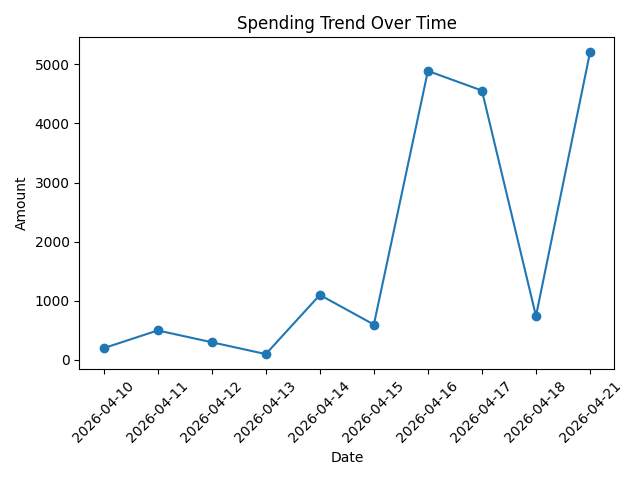
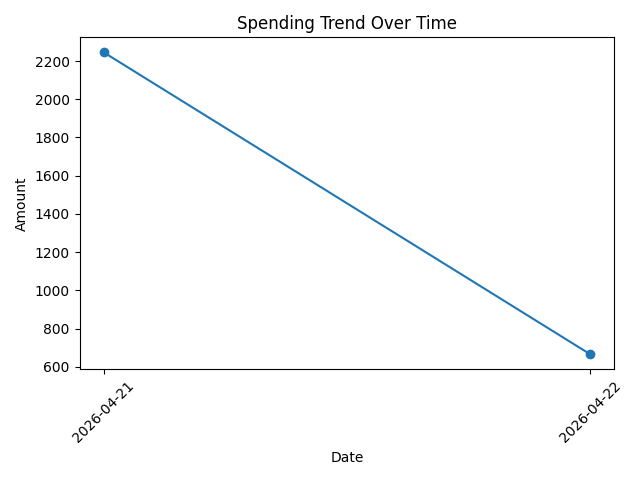
feat(database): fully integrated expense management and analytics from JSON to SQLite

diff --git a/services.py b/services.py
@@ -1,26 +1,15 @@
 import json
 import os
-import uuid
+import matplotlib
+
+matplotlib.use("Agg")
+
 import matplotlib.pyplot as plt
 from collections import defaultdict
 from datetime import datetime
 from models import db, Expense
 
-
-FILE_PATH = "expenses.json"
-
-
-def load_expenses():
-    if not os.path.exists(FILE_PATH):
-        return []
-
-    with open(FILE_PATH, "r") as f:
-        return json.load(f)
-
-
-def save_expenses(expenses):
-    with open(FILE_PATH, "w") as f:
-        json.dump(expenses, f, indent=4)
+BUDGET_FILE = "budgets.json"
 
 
 def add_expense(data):
@@ -30,19 +19,9 @@ def add_expense(data):
         description=data["description"],
         date=data["date"],
     )
-
     db.session.add(expense)
     db.session.commit()
-
     return expense
-
-
-def delete_expense(expense_id):
-    expense = Expense.query.get(expense_id)
-
-    if expense:
-        db.session.delete(expense)
-        db.session.commit()
 
 
 def get_all_expenses():
@@ -61,33 +40,35 @@ def update_expense(expense_id, data):
         expense.category = data["category"]
         expense.description = data["description"]
         expense.date = data["date"]
-
         db.session.commit()
 
 
-from collections import defaultdict
+def delete_expense(expense_id):
+    expense = Expense.query.get(expense_id)
+
+    if expense:
+        db.session.delete(expense)
+        db.session.commit()
 
 
 def generate_insights():
-    expenses = load_expenses()
+    expenses = get_all_expenses()
     budgets = load_budgets()
 
     if not expenses:
         return ["No data available"]
 
     insights = []
-
     total = 0
     category_totals = defaultdict(int)
 
     for e in expenses:
-        amount = int(e["amount"])
-        category = e["category"].strip().lower()
+        amount = e.amount
+        category = e.category.strip().lower()
 
         total += amount
         category_totals[category] += amount
 
-    # Overall Budget Check
     overall_budget = budgets.get("overall", 0)
 
     if overall_budget > 0:
@@ -100,7 +81,6 @@ def generate_insights():
         else:
             insights.append(f"✅ You used {percent:.1f}% of your overall budget")
 
-    # Category Budget Check
     category_budgets = budgets.get("categories", {})
 
     for cat, amt in category_totals.items():
@@ -116,44 +96,32 @@ def generate_insights():
             else:
                 insights.append(f"{cat.title()} usage: {percent:.1f}% of budget")
 
-    # Highest category
     if category_totals:
         max_cat = max(category_totals, key=category_totals.get)
         insights.append(f"Highest spending category: {max_cat.title()}")
 
-    print("Budgets:", budgets)
-    print("Category totals:", category_totals)
-
-    from datetime import datetime
-
-    # Weekly + Weekend Analysis
     weekday_total = 0
     weekend_total = 0
 
     for e in expenses:
-        date_obj = datetime.strptime(e["date"], "%Y-%m-%d")
-        amount = int(e["amount"])
+        date_obj = datetime.strptime(e.date, "%Y-%m-%d")
 
-        # Monday=0 ... Sunday=6
-        if date_obj.weekday() >= 5:  # Saturday, Sunday
-            weekend_total += amount
+        if date_obj.weekday() >= 5:
+            weekend_total += e.amount
         else:
-            weekday_total += amount
+            weekday_total += e.amount
 
-    # Compare
     if weekend_total > weekday_total:
         insights.append("📅 You spend more on weekends")
     elif weekday_total > weekend_total:
         insights.append("📅 You spend more on weekdays")
 
-    # Highest Spending Day
     day_totals = defaultdict(int)
 
     for e in expenses:
-        date_obj = datetime.strptime(e["date"], "%Y-%m-%d")
+        date_obj = datetime.strptime(e.date, "%Y-%m-%d")
         day_name = date_obj.strftime("%A")
-
-        day_totals[day_name] += int(e["amount"])
+        day_totals[day_name] += e.amount
 
     if day_totals:
         max_day = max(day_totals, key=day_totals.get)
@@ -163,29 +131,23 @@ def generate_insights():
 
 
 def generate_advanced_insights():
-    expenses = load_expenses()
+    expenses = get_all_expenses()
 
     if not expenses:
         return ["No data available"]
 
-    total = sum(e["amount"] for e in expenses)
-
+    total = sum(e.amount for e in expenses)
     category_totals = defaultdict(int)
 
     for e in expenses:
-        category_totals[e["category"]] += e["amount"]
+        category_totals[e.category] += e.amount
 
-    insights = []
+    insights = [f"Total spending: ₹{total}"]
 
-    # Total
-    insights.append(f"Total spending: ₹{total}")
-
-    # Category %
     for cat, amt in category_totals.items():
         percent = (amt / total) * 100
         insights.append(f"{cat} accounts for {percent:.1f}%")
 
-    # Highest category
     max_cat = max(category_totals, key=category_totals.get)
     insights.append(f"Highest spending: {max_cat}")
 
@@ -193,31 +155,28 @@ def generate_advanced_insights():
 
 
 def generate_pie_chart():
-    expenses = load_expenses()
+    expenses = get_all_expenses()
 
     if not expenses:
         return
 
-    category_totals = {}
+    category_totals = defaultdict(int)
 
     for e in expenses:
-        cat = e["category"]
-        category_totals[cat] = category_totals.get(cat, 0) + e["amount"]
+        category_totals[e.category] += e.amount
 
     labels = list(category_totals.keys())
     values = list(category_totals.values())
 
     plt.figure()
     plt.pie(values, labels=labels, autopct="%1.1f%%")
-
     plt.title("Expense Distribution")
-
     plt.savefig("static/pie_chart.png")
     plt.close()
 
 
 def generate_line_chart():
-    expenses = load_expenses()
+    expenses = get_all_expenses()
 
     if not expenses:
         return
@@ -225,33 +184,22 @@ def generate_line_chart():
     daily_totals = defaultdict(int)
 
     for e in expenses:
-        date = e["date"]
-        amount = int(e["amount"])
-        daily_totals[date] += amount
+        daily_totals[e.date] += e.amount
 
-    # Sort dates
     sorted_dates = sorted(daily_totals.keys())
     values = [daily_totals[d] for d in sorted_dates]
 
     plt.figure()
     plt.plot(sorted_dates, values, marker="o")
-
     plt.title("Spending Trend Over Time")
     plt.xlabel("Date")
     plt.ylabel("Amount")
-
     plt.xticks(rotation=45)
-
     plt.tight_layout()
-
-    import os
 
     path = os.path.join("static", "line_chart.png")
     plt.savefig(path)
     plt.close()
-
-
-BUDGET_FILE = "budgets.json"
 
 
 def load_budgets():
@@ -277,7 +225,7 @@ def save_budgets(data):
 
 
 def generate_description_insights():
-    expenses = load_expenses()
+    expenses = get_all_expenses()
 
     if not expenses:
         return []
@@ -293,7 +241,7 @@ def generate_description_insights():
     sub_count = 0
 
     for e in expenses:
-        desc = e["description"].lower()
+        desc = (e.description or "").lower()
 
         if any(word in desc for word in food_keywords):
             food_count += 1
@@ -316,27 +264,21 @@ def generate_description_insights():
     return insights
 
 
-from datetime import datetime
-
-
 def validate_expense_data(amount, category, date):
     errors = []
 
-    # Amount
     if amount <= 0:
         errors.append("Amount must be greater than 0")
 
     if amount > 1000000:
         errors.append("Amount too large")
 
-    # Category
     if not category.strip():
         errors.append("Category is required")
 
     if len(category) > 30:
         errors.append("Category too long")
 
-    # Date
     try:
         datetime.strptime(date, "%Y-%m-%d")
     except ValueError:

diff --git a/app.py b/app.py
@@ -1,7 +1,6 @@
 from flask import Flask, request, render_template, redirect
 from config import Config
 from datetime import datetime
-import os
 
 from models import db
 
@@ -22,9 +21,7 @@ from services import (
 )
 
 app = Flask(__name__)
-
 app.config.from_object(Config)
-
 
 db.init_app(app)
 
@@ -60,7 +57,6 @@ def create_expense():
     if category == "custom":
         category = request.form.get("custom_category", "").strip().lower()
 
-    # Safe amount conversion
     try:
         amount = int(request.form.get("amount", 0))
     except ValueError:
@@ -83,16 +79,15 @@ def create_expense():
     return redirect("/")
 
 
-@app.route("/update/<expense_id>", methods=["POST"])
+@app.route("/update/<int:expense_id>", methods=["POST"])
 def update(expense_id):
     category = request.form.get("category", "").strip().lower()
+    date = request.form.get("date")
 
     try:
         amount = int(request.form.get("amount", 0))
     except ValueError:
         return "Error: Invalid amount"
-
-    date = request.form.get("date")
 
     errors = validate_expense_data(amount, category, date)
 
@@ -111,7 +106,7 @@ def update(expense_id):
     return redirect("/")
 
 
-@app.route("/edit/<expense_id>")
+@app.route("/edit/<int:expense_id>")
 def edit_page(expense_id):
     expense = get_expense_by_id(expense_id)
 
@@ -121,7 +116,7 @@ def edit_page(expense_id):
     return render_template("edit.html", expense=expense)
 
 
-@app.route("/delete/<expense_id>")
+@app.route("/delete/<int:expense_id>")
 def delete(expense_id):
     delete_expense(expense_id)
     return redirect("/")

diff --git a/models.py b/models.py
@@ -4,13 +4,13 @@ db = SQLAlchemy()
 
 
 class Expense(db.Model):
+    __tablename__ = "expenses"
+
     id = db.Column(db.Integer, primary_key=True)
-
     amount = db.Column(db.Integer, nullable=False)
-
     category = db.Column(db.String(50), nullable=False)
-
-    description = db.Column(db.String(150))
-
+    description = db.Column(db.String(150), nullable=True)
     date = db.Column(db.String(20), nullable=False)
 
+    def __repr__(self):
+        return f"<Expense {self.id} {self.category} ₹{self.amount}>"

diff --git a/config.py b/config.py
@@ -1,6 +1,7 @@
 import os
 
+
 class Config:
     SECRET_KEY = os.getenv("SECRET_KEY", "devkey")
-    SQLALCHEMY_DATABASE_URI = "sqlite:///expenseiq.db"
+    SQLALCHEMY_DATABASE_URI = os.getenv("DATABASE_URL", "sqlite:///expenseiq.db")
     SQLALCHEMY_TRACK_MODIFICATIONS = False
